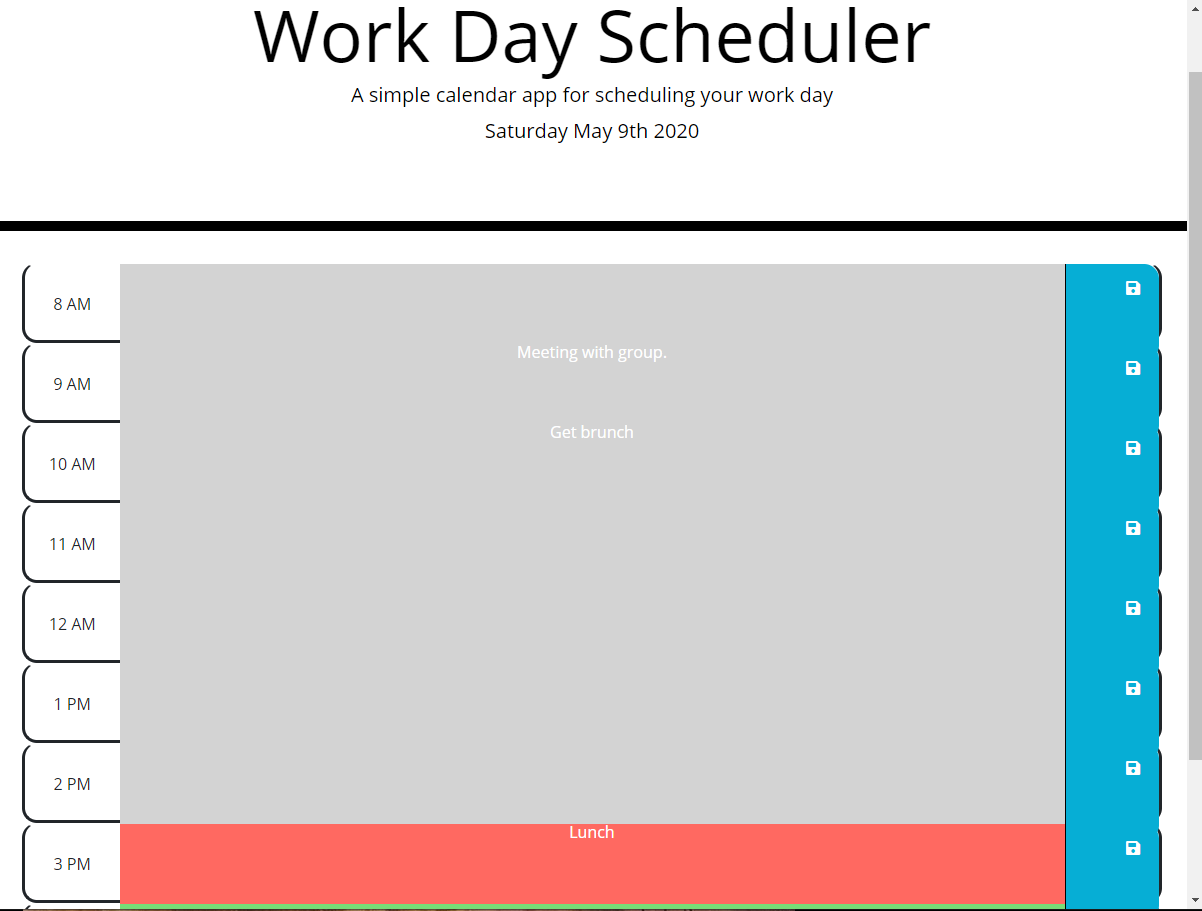
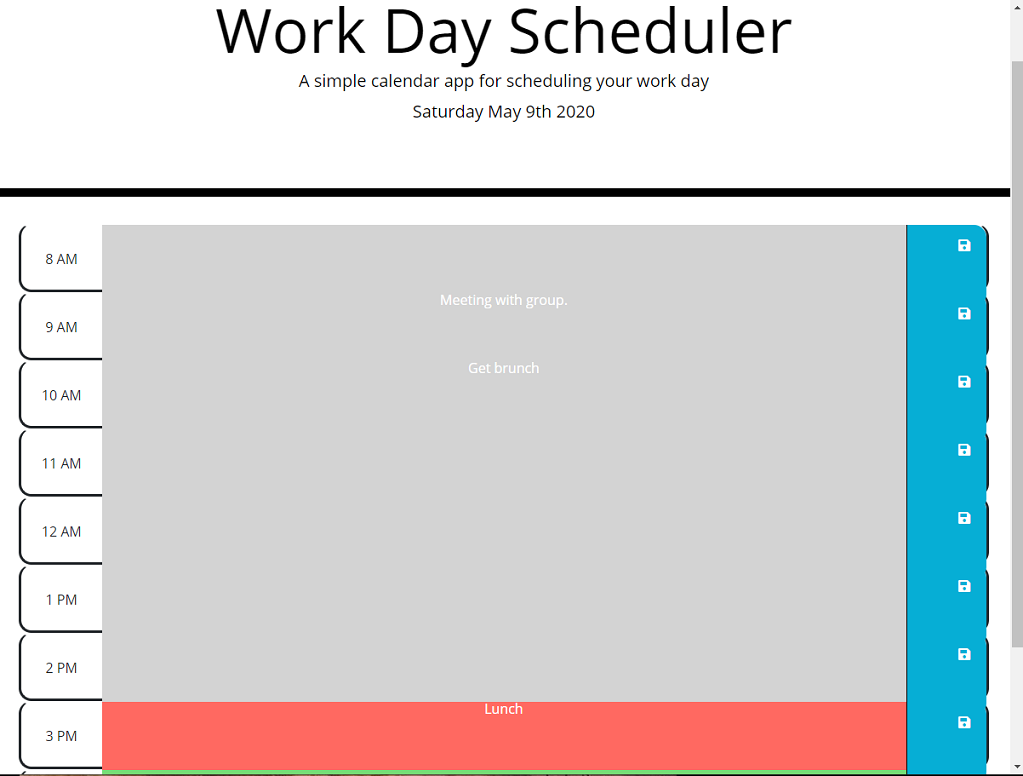
Reworked with bootstaap

diff --git a/index.html b/index.html
@@ -6,7 +6,8 @@
         <meta name="description" content="">
         <meta name="viewport" content="width=device-width, initial-scale=1">
         <link rel="stylesheet" href="./assets/style/style.css">
-        <!-- <script src="https://kit.fontawesome.com/6fa007481e.js" crossorigin="anonymous"></script> -->
+        <link rel="stylesheet" href="https://stackpath.bootstrapcdn.com/bootstrap/4.3.1/css/bootstrap.min.css" integrity="sha384-ggOyR0iXCbMQv3Xipma34MD+dH/1fQ784/j6cY/iJTQUOhcWr7x9JvoRxT2MZw1T" crossorigin="anonymous">
+        
     </head>
     <body>
         <!-- Navigation use flex-->
@@ -34,52 +35,104 @@
             </div>
        </section>
        <hr>
-       <!-- Work .  Use Grid-->
-       <section  id='mywork' class='work'>
-            <div><h2>Past Projects</h2></div>
-            <div class='vl'></div>
-            <div class='grid-container'>
-                <div class='item1 project'>
-                    <h3>Varcation-Planner</h3>
-                    <a href="https://terrylthompsonintx.github.io/Vacation-Planner/" target="_blank"><img src="./assets/img/parks.png" alt="An image of the Vacation-Planner site"></a>
+       <section id ='mywork' >
+           <div class='container-fluid'>
+               <h3>Past Projects</h3>
+                <div class='row'>
+                    <div class='col-3'>
+                        <img src='./assets/img/hearth.png' class="card-img-top" alt="...">
+                        <div class="card-body">
+                          <h5 class="card-title">Hearth</h5>
+                          <p class="card-text">Hearth is a photo sharing app. Users can create a group in which they can create posts to upload and share photographs.  Only group members can view posts. 
+                              Hearth is a full stack app that uses Node, Express, Jimp, Express-Fileupload and Mysql as well as Sequelize </p>
+                          <a href="https://infinite-ocean-27765.herokuapp.com/" class="btn btn-primary" target='_blank'>View App</a>
+                          <a href="" class="btn btn-secondary" target= '_blank'>View Github</a>
+                        </div> 
+                    </div>
+                    <div class='col-3'>
+                        <img src='./assets/img/parks.png' class="card-img-top" alt="...">
+                        <div class="card-body">
+                          <h5 class="card-title">Vacation-Planner</h5>
+                          <p class="card-text">A front end application that allows users to plan a vacation at a national park. 
+                              The webpage consumes the National Park Service and Open Weather APIs to display campground and weather information. </p>
+                          <a href="https://terrylthompsonintx.github.io/Vacation-Planner/" class="btn btn-primary" target= '_blank'>  View App  </a>
+                          <a href="https://github.com/roxyvaught/Vacation-Planner" class="btn btn-secondary" target= '_blank'>View Github</a>
+                        </div> 
+                    </div>
+                    <div class='col-3'>
+                        <img src='./assets/img/weather.png' class="card-img-top" alt="...">
+                        <div class="card-body">
+                          <h5 class="card-title">Weather-Dashboard</h5>
+                          <p class="card-text">A front end project that allows the user to get the forecast for their city. The webpage consumes the Open Weather API.
+                               </p>
+                          <a href="https://terrylthompsonintx.github.io/Weather-Dashboard/" class="btn btn-primary" target= '_blank'>View App</a>
+                          <a href="https://github.com/terrylthompsonintx/Weather-Dashboard" class="btn btn-secondary" target= '_blank'>View Github</a>
+                        </div> 
+                    </div>
+                    <div class='col-3'>
+                        <img src='./assets/img/horiseon.png' class="card-img-top" alt="...">
+                        <div class="card-body">
+                          <h5 class="card-title">Horiseon</h5>
+                          <p class="card-text">A simple webpage. </p>
+                          <a href="https://terrylthompsonintx.github.io/Challenge-1-Horiseon/" class="btn btn-primary" target='_blank'>View App</a>
+                          <a href="https://github.com/terrylthompsonintx/Challenge-1-Horiseon" class="btn btn-secondary" target= '_blank'>View Github</a>
+                        </div> 
+                    </div>
+                    
                 </div>
-                <div class='item2 project'>
-                    <h3>Weather-Dashboard</h3>
-                    <a href="https://terrylthompsonintx.github.io/Weather-Dashboard/" target="_blank"><img src="./assets/img/weather.png" alt="An image of the Weather Dashboard site"></a>
+                <div class='row'>
+                    <div class='col-3'>
+                        <img src='./assets/img/daytimer.png' class="card-img-top" alt="...">
+                        <div class="card-body">
+                          <h5 class="card-title">Day Timer</h5>
+                          <p class="card-text">An app that allows the user to plan their day. The user enters tasks through out the day.  The app uses the javascript setinterval method to track time.  </p>
+                          <a href="https://terrylthompsonintx.github.io/DayTimer/" class="btn btn-primary" target='_blank'>View App</a>
+                          <a href="https://github.com/terrylthompsonintx/DayTimer" class="btn btn-secondary" target= '_blank'>View Github</a>
+                        </div> 
+                    </div>
+                    <div class='col-3'>
+                        <img src='./assets/img/jsquiz.png' class="card-img-top" alt="...">
+                        <div class="card-body">
+                          <h5 class="card-title">Javascrip Quiz</h5>
+                          <p class="card-text">A quiz game.   </p>
+                          <a href="https://terrylthompsonintx.github.io/jsQuiz/" class="btn btn-primary" target='_blank'>View App</a>
+                          <a href="https://github.com/terrylthompsonintx/jsQuiz" class="btn btn-secondary" target= '_blank'>View Github</a>
+                        </div> 
+                    </div>
+                    <div class='col-3'>
+                    <img src='./assets/img/password.png' class="card-img-top" alt="...">
+                        <div class="card-body">
+                          <h5 class="card-title">Password Generator</h5>
+                          <p class="card-text">An app that prompts the users for the parameters of new password and generates a random one based on those parameters.
+                               </p>
+                          <a href="https://terrylthompsonintx.github.io/password-generator/" class="btn btn-primary" target='_blank'>View App</a>
+                          <a href="https://github.com/terrylthompsonintx/password-generator" class="btn btn-secondary" target= '_blank'>View Github</a>
+                        </div> 
+                    </div>
+                    <div class='col-3'>
+                    <img src='./assets/img/notetaker.png' class="card-img-top" alt="...">
+                        <div class="card-body">
+                          <h5 class="card-title">Note Taker</h5>
+                          <p class="card-text">A note taking app with persistance.  The user can create,edit, and delete notes.  Persistance is through local storage. </p>
+                          <a href="https://notetaker--tt.herokuapp.com/" class="btn btn-primary" target='_blank'>View App</a>
+                          <a href="" class="btn btn-secondary" target= '_blank'>View Github</a>
+                        </div> 
+                    </div>
+                   
                 </div>
-                <div class='item3 project'>
-                    <h3>Horiseon</h3>
-                    <a href="https://terrylthompsonintx.github.io/Challenge-1-Horiseon/"target="_blank" ><img src="./assets/img/horiseon.png" alt="An imgage of the horiseon site"></a>
-                </div>
-                <div class='item4 project'>
-                    <h3>Day Timer</h3>
-                    <a href="https://terrylthompsonintx.github.io/DayTimer/" target="_blank"><img src="./assets/img/daytimer.png" alt="An image of the Daytimer site"></a>
-                </div>
-                <div class='item5 project'>
-                    <h3>Javascrip Quiz</h3>
-                    <a href="https://terrylthompsonintx.github.io/jsQuiz/" target="_blank"><img src="./assets/img/jsquiz.png" alt="An image of the Javascrip Quiz site"></a>
-                </div>
-                <div class='item6 project'>
-                    <h3>Password Generator</h3>
-                    <a href="https://terrylthompsonintx.github.io/password-generator/" target="_blank"><img src="./assets/img/password.png" alt="An image of the Password Generator site"></a>
-                </div>
-                
-                <div class='item7 project'>
-                    <h3>Run-Buddy</h3>
-                    <a href="https://terrylthompsonintx.github.io/run-buddy/" target="_blank"><img src="./assets/img/runbuddy.png" alt="An image of the Run-Buddy site"></a>
-                </div>
-               
-               
-            </div>  
-        </section>
+           </div>
+       </section>
+
+       <!-- Work -->
+
        <!--Footer Contact links-->
        <footer id='contact' class='contactme'>
            <h2>Contact Me</h2>
            <ul>
-               <li><a href="tel:15129142238"><img  src="./assets/img/cell.png" alt="An icon of a telephone" width='42px'></a></li>
-               <li><a href="mailto:terryLThompsonInTx@gmail.com"><img src="./assets/img/email.png" alt="An icon of email" width='42px'></a></li>
-               <li><a href="https://github.com/terrylthompsonintx" target="_blank"><img src="./assets/img/githubocto.png" src="An icon of Github" width='42px'></a></li>
-               <li><a href="https://www.linkedin.com/in/terrylthompson/" target="_blank"><img src="./assets/img/link.png" width='42px'></a></li>
+                <li><a href="tel:15129142238"><img  src="./assets/img/cell.png" alt="An icon of a telephone" width='42px'></a></li>
+                <li><a href="mailto:terryLThompsonInTx@gmail.com"><img src="./assets/img/email.png" alt="An icon of email" width='42px'></a></li>
+                <li><a href="https://github.com/terrylthompsonintx" target="_blank"><img src="./assets/img/githubocto.png" src="An icon of Github" width='42px'></a></li>
+                <li><a href="https://www.linkedin.com/in/terrylthompson/" target="_blank"><img src="./assets/img/link.png" width='42px'></a></li>
                 <li><a href="TerryThompsonWebDeveloperResume.pdf" download="TerryThompsonWebDeveloperResume.pdf"><img src="./assets/img/resume.png" width='42px'></a></li>
             </ul>
        </footer>

diff --git a/assets/style/style.css b/assets/style/style.css
@@ -129,7 +129,7 @@ a:link, a:visited {
     max-height: 100%;
 }
 .item1 {
-  padding-right: 20px;
+  /*padding-right: 20px;*/
   grid-column-start: 1; 
   grid-column-end: 3; 
   grid-row-start: 2; 
